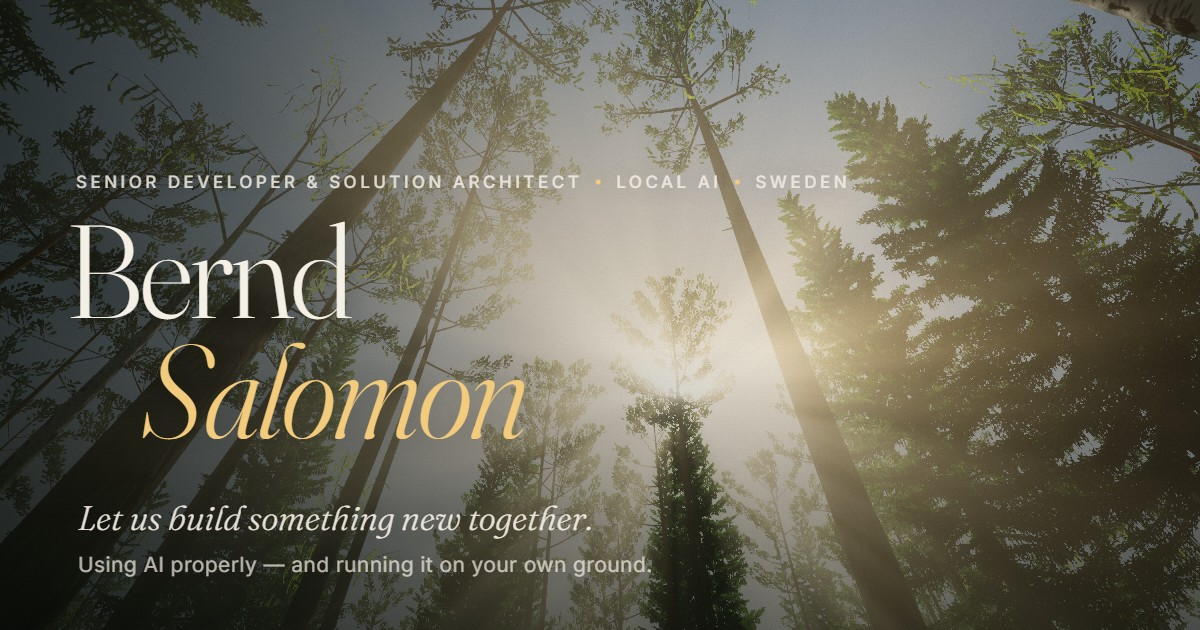
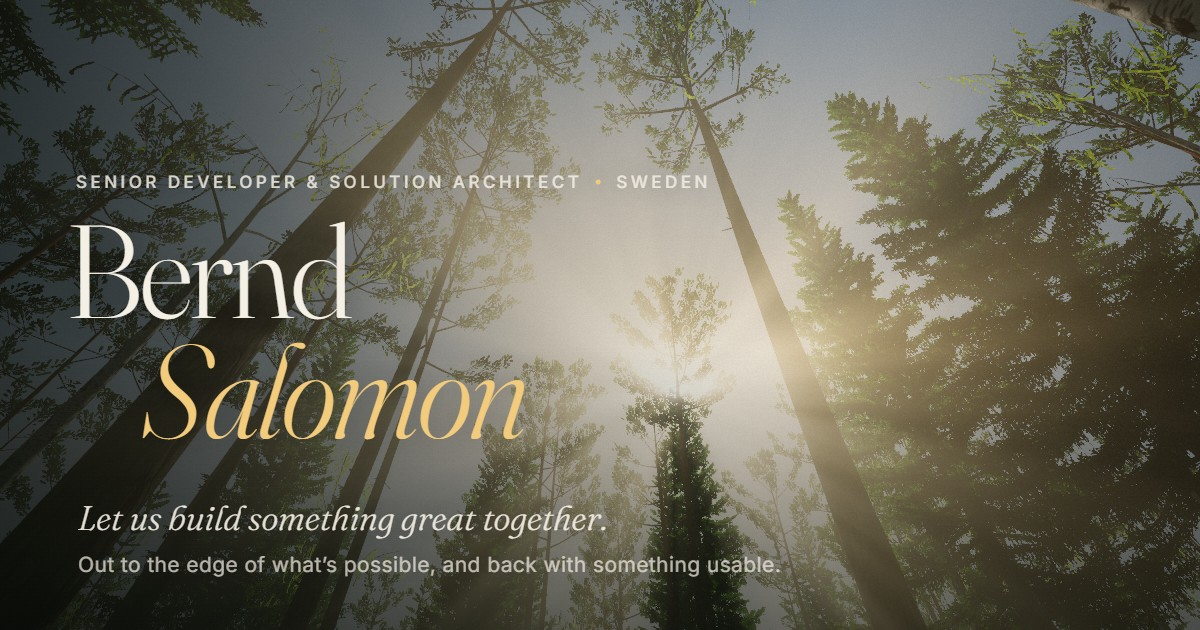
Broaden the story beyond AI: hard problems, grown systems, all in
- Hero and meta: "Senior Developer & Solution Architect · Sweden", no local AI label.
- About: new headline, the move to Sweden, why I love this work; help list now
  leads with taking grown systems to the next level, AI is one item of three.
- Finale: "Let us build something great together." and a call for people who
  are all in.
- Drop the EULE detail from the work cards.
- Re-rendered share image with the new lines.

Changed region(s): [[0.0617, 0.8143, 0.6475, 0.9349], [0.5242, 0.2714, 0.7092, 0.3016]]

diff --git a/index.html b/index.html
@@ -3,18 +3,18 @@
 <head>
   <meta charset="utf-8" />
   <meta name="viewport" content="width=device-width, initial-scale=1, viewport-fit=cover" />
-  <title>Bernd Salomon — Senior Developer, Solution Architect &amp; local AI</title>
-  <meta name="description" content="Bernd Salomon: 20+ years of software and data engineering. Helping people use AI properly and run their own sovereign, self-hosted AI setup." />
+  <title>Bernd Salomon — Senior Developer &amp; Solution Architect</title>
+  <meta name="description" content="Bernd Salomon, senior developer and solution architect in Sweden. Twenty years of turning hard problems into software that runs: architecture, data platforms and AI, used properly." />
   <meta name="theme-color" content="#0b140e" />
   <meta property="og:type" content="website" />
   <meta property="og:url" content="https://berndsalomon83.github.io/portfolio-website/" />
-  <meta property="og:title" content="Bernd Salomon — Senior Developer, Solution Architect &amp; local AI" />
-  <meta property="og:description" content="Use AI properly, and run it on your own ground. Let us build something new together." />
+  <meta property="og:title" content="Bernd Salomon — Senior Developer &amp; Solution Architect" />
+  <meta property="og:description" content="Hard problems, deep thinking and the will to see it through. Let us build something great together." />
   <meta property="og:image" content="https://berndsalomon83.github.io/portfolio-website/og-image.jpg" />
   <meta property="og:image:type" content="image/jpeg" />
   <meta property="og:image:width" content="1200" />
   <meta property="og:image:height" content="630" />
-  <meta property="og:image:alt" content="Sunlight breaking through the crowns of a Swedish pine forest, with the name Bernd Salomon and the line: Let us build something new together." />
+  <meta property="og:image:alt" content="Sunlight breaking through the crowns of a Swedish pine forest, with the name Bernd Salomon and the line: Let us build something great together." />
   <meta name="twitter:card" content="summary_large_image" />
   <meta name="twitter:image" content="https://berndsalomon83.github.io/portfolio-website/og-image.jpg" />
   <link rel="canonical" href="https://berndsalomon83.github.io/portfolio-website/" />
@@ -95,14 +95,14 @@
     <!-- 00 · HERO ─────────────────────────────────────────────── -->
     <section id="hero" class="chapter chapter--hero" data-chapter>
       <div class="hero">
-        <p class="eyebrow reveal">Senior Developer &amp; Solution Architect <span class="dot"></span> Local AI <span class="dot"></span> Sweden</p>
+        <p class="eyebrow reveal">Senior Developer &amp; Solution Architect <span class="dot"></span> Sweden</p>
         <h1 class="hero__name reveal" style="--d: 1">
           <span>Bernd</span>
           <em>Salomon</em>
         </h1>
         <p class="hero__lead reveal" style="--d: 2">
-          Twenty years of building software and data platforms that run reliably at scale.
-          Today I help people put AI to work properly, and run it on their own ground.
+          Twenty years of turning hard problems into software that runs. I'm at my best where it
+          takes deep thinking, a creative spark and the will to see it through.
         </p>
       </div>
       <a class="scroll-cue reveal" style="--d: 4" href="#about">
@@ -115,14 +115,18 @@
     <section id="about" class="chapter" data-chapter>
       <div class="about">
         <p class="kicker reveal"><span>01</span> About</p>
-        <h2 class="display display--wide reveal" style="--d: 1">AI is a lever. It pays off when you know what lies <em>beneath</em>.</h2>
+        <h2 class="display display--wide reveal" style="--d: 1">Out to the edge of what's possible, and back with something <em>usable</em>.</h2>
         <div class="about__grid">
           <div class="about__body glass reveal" style="--d: 2">
             <p>
-              Hej! I'm Bernd, a senior developer and solution architect living in Sweden. For more than
-              twenty years I built and ran large data platforms and business applications inside the
-              Deutsche Bahn group, owning everything from requirements and architecture decisions to
-              implementation and day-to-day production.
+              Hej! I'm Bernd, a senior developer and solution architect. For more than twenty years I
+              built and ran large data platforms and business applications inside the Deutsche Bahn
+              group, owning everything from requirements and architecture decisions to implementation
+              and day-to-day production.
+            </p>
+            <p>
+              Moving to Sweden was a big step: 1,500 km from home, a new language to learn, a new
+              culture to grow into. But when I'm in, no step is too big.
             </p>
             <p>
               I work spec-driven, with security by design, tests first and decisions written down.
@@ -130,9 +134,14 @@
               blind. To develop and test LLM solutions I run my own NVIDIA DGX Spark, private inference
               that doesn't depend on anyone's cloud API.
             </p>
+            <p>
+              Honestly? I love this work. The problem nobody has cracked yet, the moment a design finally
+              clicks, and the last stretch that turns something clever into something people enjoy
+              using: that's what I live for.
+            </p>
             <dl class="facts">
               <div><dt>Home</dt><dd>Säffle, Sweden</dd></div>
-              <div><dt>Focus</dt><dd>Local &amp; sovereign AI · data platforms</dd></div>
+              <div><dt>Focus</dt><dd>Architecture · data platforms · AI</dd></div>
               <div><dt>Languages</dt><dd>German · English · Swedish (learning)</dd></div>
               <div><dt>Status</dt><dd><span class="pulse"></span>Available now</dd></div>
             </dl>
@@ -141,16 +150,16 @@
             <h3>How I can help</h3>
             <ul class="help__list">
               <li>
-                <h4>Use AI properly</h4>
-                <p>Get real value from AI assistants and coding agents without losing control: clear specs, tests as a safety net, and knowing when not to trust the output.</p>
+                <h4>Your systems, to the next level</h4>
+                <p>No green field needed. I find my way through grown, complex systems fast, understand why they are the way they are, and take them further without breaking what your business runs on.</p>
               </li>
               <li>
-                <h4>Your own AI, on your own ground</h4>
-                <p>Plan and set up a sovereign AI stack: open-weight models on your own hardware, served and secured, with your data staying where it belongs.</p>
+                <h4>The hard problems</h4>
+                <p>Architecture and engineering where it takes real thinking and a bit of creativity, owned all the way from requirements to production. Pushing what's possible is the fun part. Making it usable is the job.</p>
               </li>
               <li>
-                <h4>AI inside your systems</h4>
-                <p>Connect LLMs to the data and software you already have: retrieval (RAG), agentic pipelines, MCP tools and APIs, built to run in production.</p>
+                <h4>AI, used properly</h4>
+                <p>Coding agents with clear specs and tests as a safety net, LLMs wired into the systems you already have, or your own models running on your own hardware.</p>
               </li>
             </ul>
           </div>
@@ -183,7 +192,7 @@
           <article class="card glass reveal" style="--d: 3">
             <div class="card__meta"><span>03</span><span>2017 – 2026</span></div>
             <h3 class="card__title">Hundreds of millions of rows, answered in real time</h3>
-            <p class="card__text">Data modelling, partitioning and performance tuning that made hundreds of millions of records explorable interactively. For several years also the sole developer responsible for EULE, the group's revenue and performance recording.</p>
+            <p class="card__text">Data modelling, partitioning and performance tuning that made hundreds of millions of records explorable interactively. No green field, but a grown system the business depended on every day.</p>
             <ul class="tags"><li>Data modelling</li><li>Performance tuning</li><li>SQL</li></ul>
             <p class="card__org">DB Systel · Deutsche Bahn</p>
           </article>
@@ -255,12 +264,12 @@
     <section id="contact" class="chapter chapter--contact" data-chapter>
       <div class="finale">
         <p class="kicker kicker--center reveal"><span>04</span> Contact</p>
-        <h2 class="finale__line" aria-label="Let us build something new together.">
+        <h2 class="finale__line" aria-label="Let us build something great together.">
           <span class="w">Let</span> <span class="w">us</span> <span class="w">build</span>
-          <span class="w">something</span> <em class="w">new</em> <span class="w">together.</span>
+          <span class="w">something</span> <em class="w">great</em> <span class="w">together.</span>
         </h2>
         <div class="finale__card glass reveal" style="--d: 7">
-          <p class="finale__sub">Want to use AI properly, or run your own models instead of renting someone else's? Or simply say hej? I'd love to hear from you.</p>
+          <p class="finale__sub">I'm looking for people who are all in: who'd rather build the best solution than the easy one, and love the work as much as I do. Sound like you? Say hej.</p>
           <!-- addresses and numbers are assembled by js/ui.js so simple scrapers can't harvest them -->
           <dl class="facts contact-list">
             <div><dt>E-mail</dt><dd><a data-mail="bernd.salomon.83|gmail.com" data-show></a></dd></div>

diff --git a/README.md b/README.md
@@ -2,7 +2,7 @@
 
 A portfolio that is also a walk through a Swedish forest on a summer morning.
 
-At the top you look up into the crowns of tall Scots pines while warm sunlight breaks through them. As you scroll, the camera tilts down past the trunks, through shafts of light in the morning mist, into the undergrowth. It ends on the mossy forest floor, where a young oak grows from its acorn in a fleck of sunlight, covered in dew, next to the line **"Let us build something new together."**
+At the top you look up into the crowns of tall Scots pines while warm sunlight breaks through them. As you scroll, the camera tilts down past the trunks, through shafts of light in the morning mist, into the undergrowth. It ends on the mossy forest floor, where a young oak grows from its acorn in a fleck of sunlight, covered in dew, next to the line **"Let us build something great together."**
 
 Nothing in the scene is a photo or a downloaded model. Every tree, texture, sunbeam and dew drop is generated in real time in the browser with [three.js](https://threejs.org).
 
